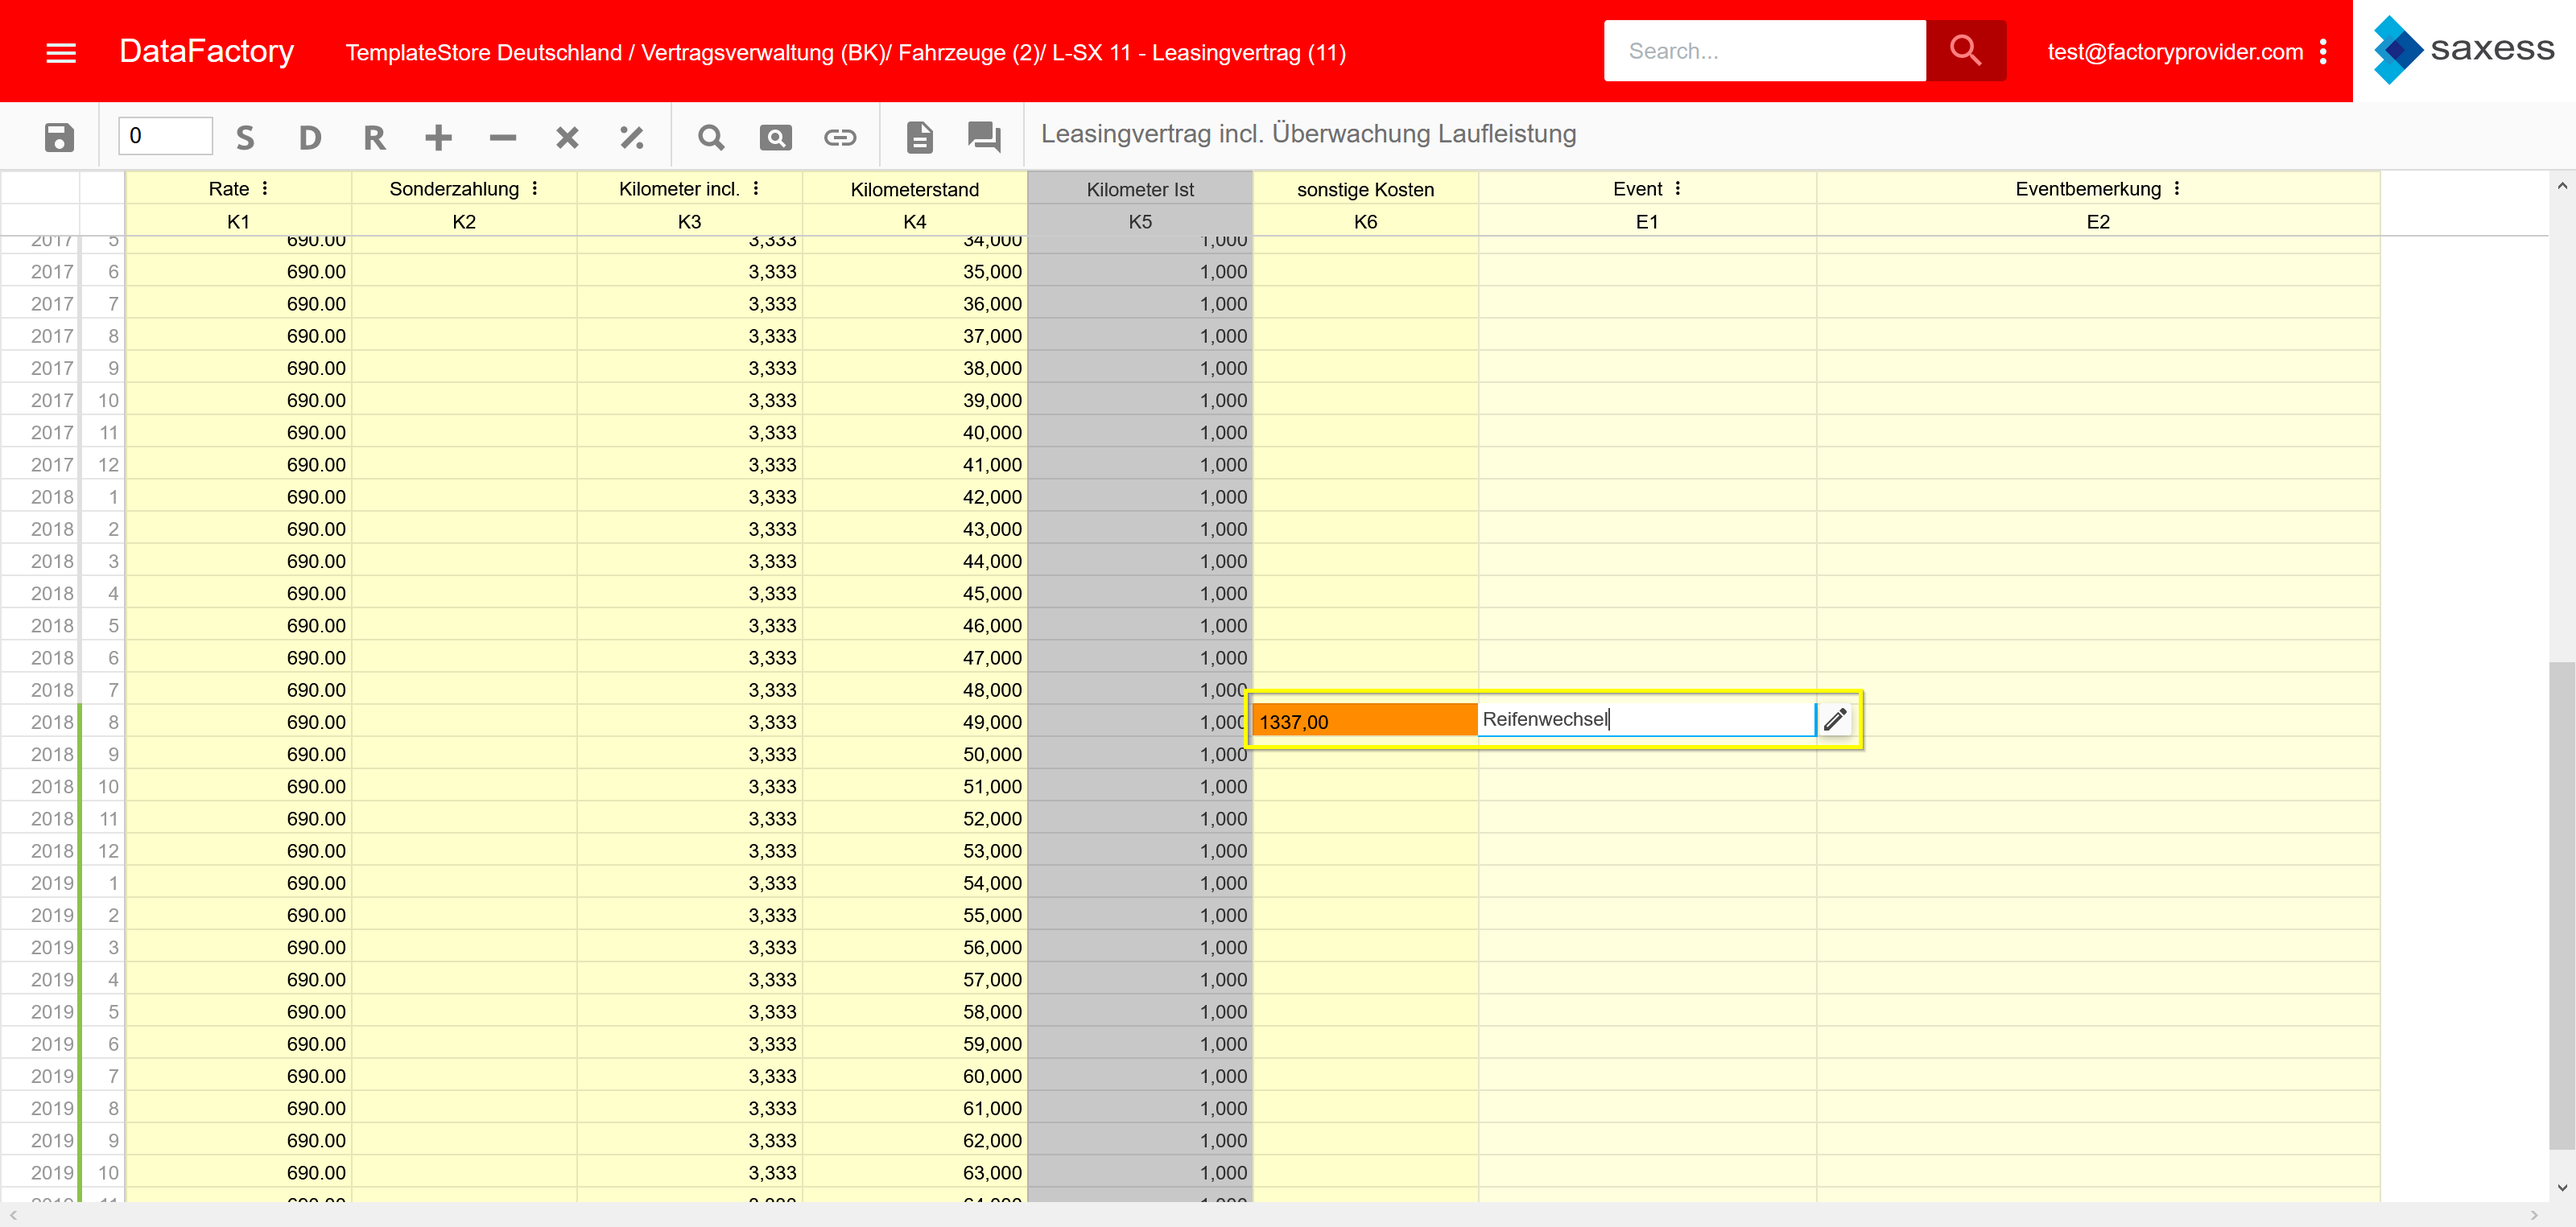
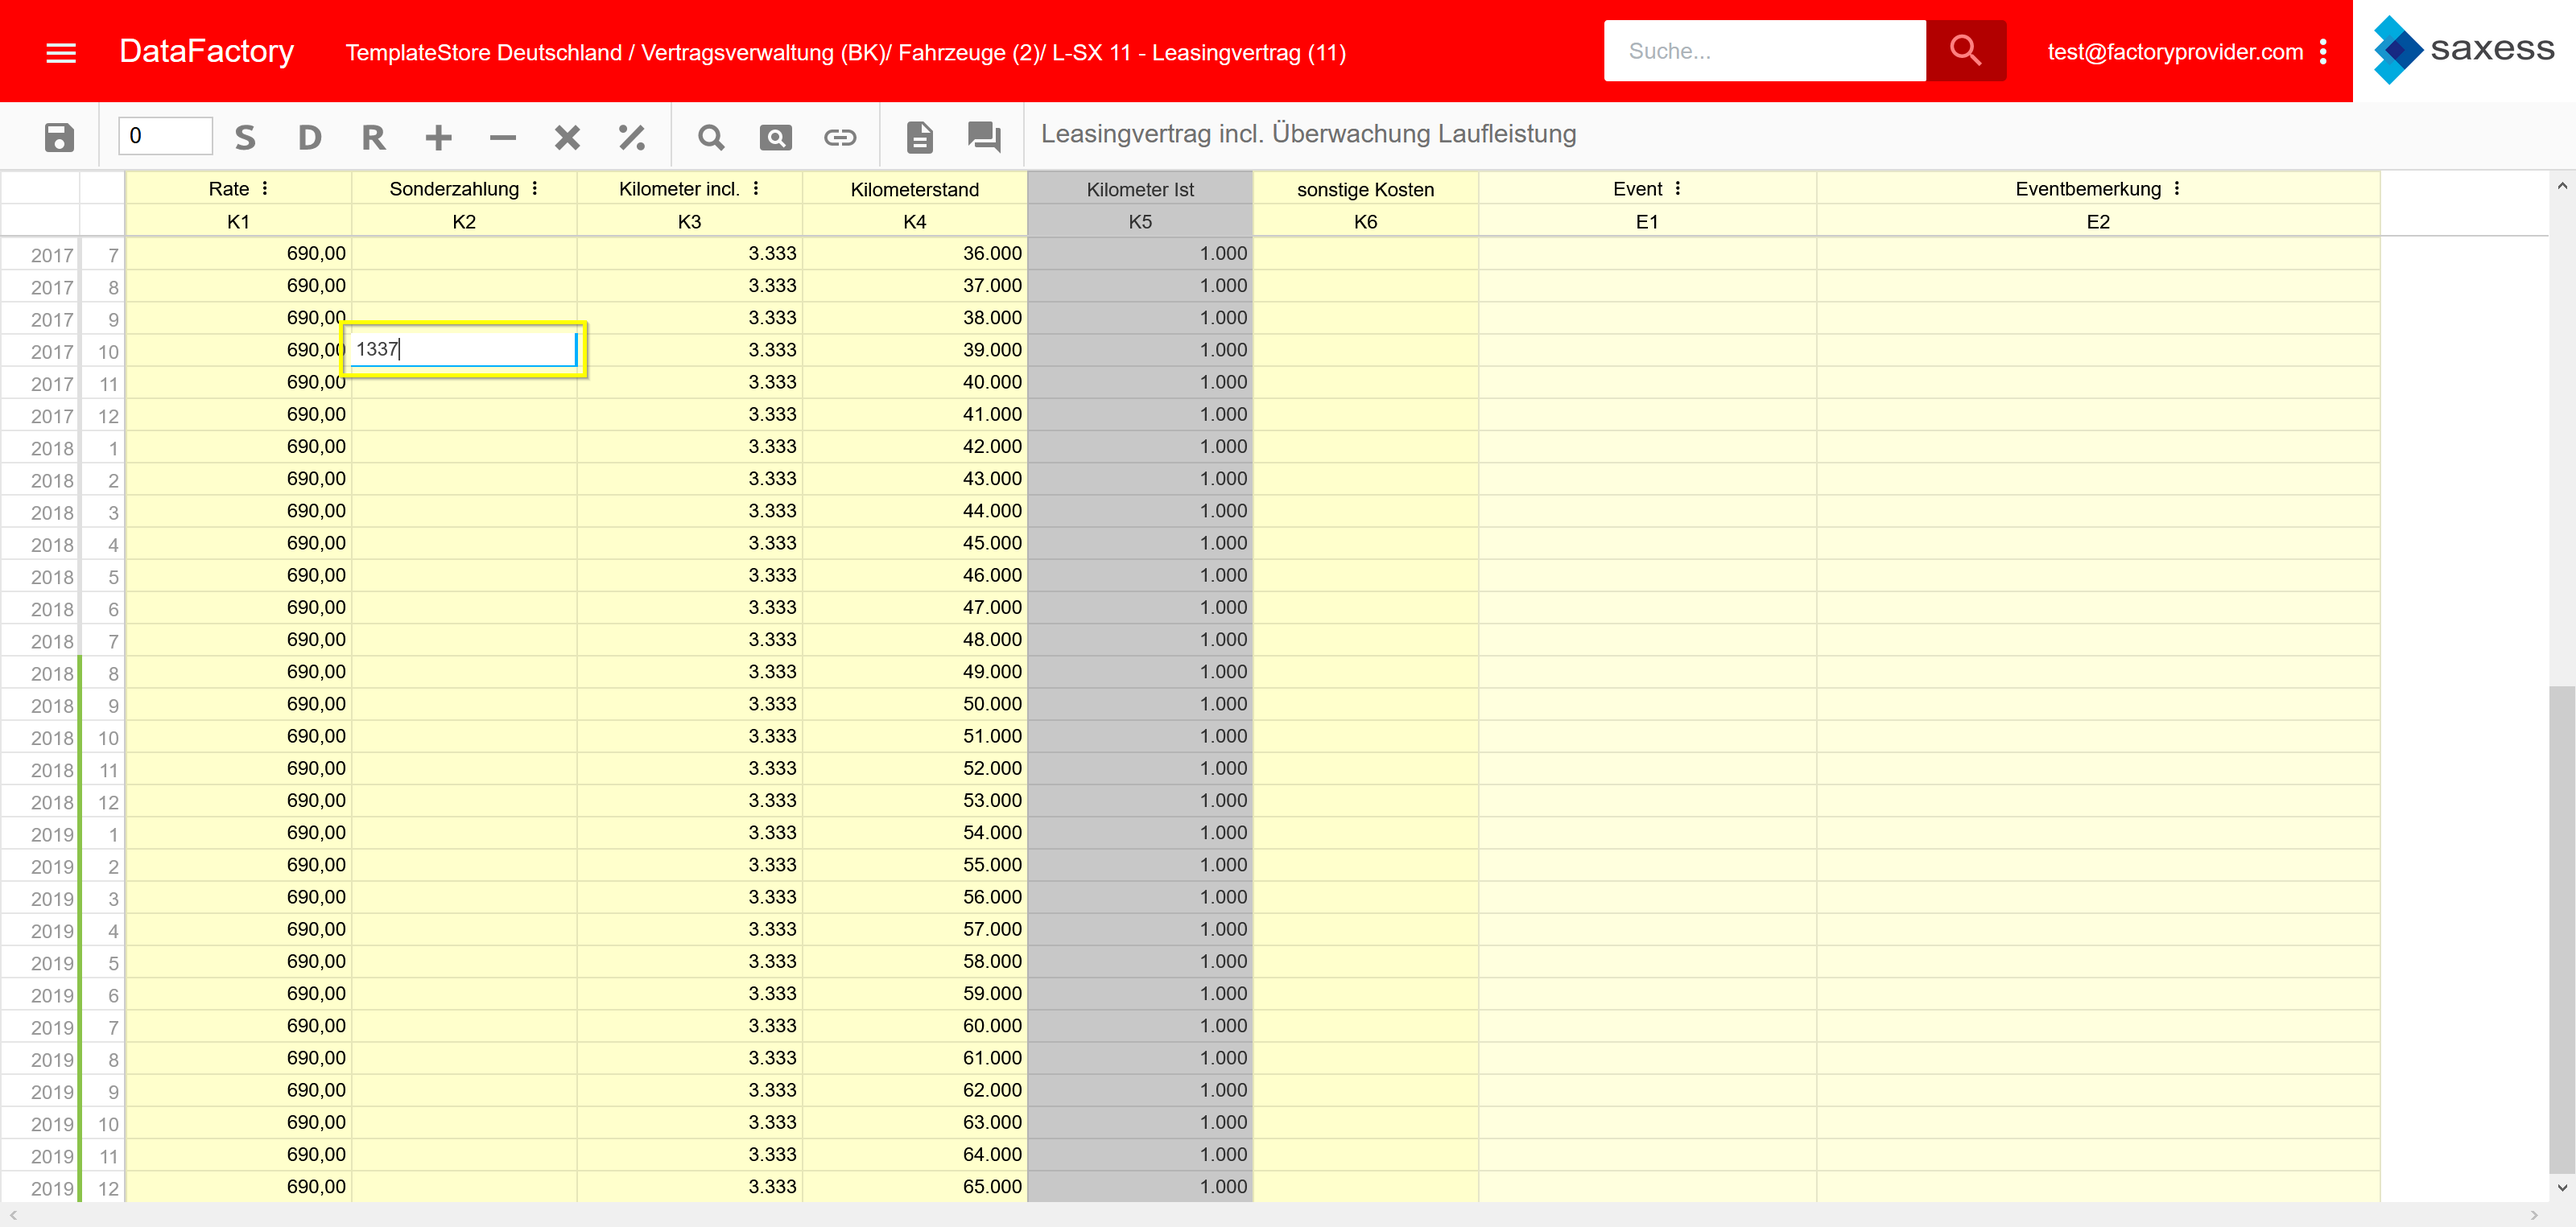
update product

diff --git a/der-web-client/produkt/aufbau/tabellekopfbereich.md b/der-web-client/produkt/aufbau/tabellekopfbereich.md
@@ -1,13 +1,13 @@
 #### Tabellenkopfbereich
 
-Im Tabellenkopfbereich finden Sie ein **Erläuterungsfeld**, den **Rechner** zur Eingabe von Daten in den Tabellenbereich sowie **Buttons** zum Speichern, nach Excel exportieren und Kommentieren.
+Im Tabellenkopfbereich finden Sie ein **Erläuterungsfeld**, den **Rechner** zur Eingabe von Daten in den Tabellenbereich sowie **Buttons** zum Speichern, nach Excel exportieren, Kommentieren, Hyperlinks hinzufügen und den Flex-Funktionen.
 
 #### *Erläuterungsfeld*
 
 Hier haben Sie die Möglichkeit, den Inhalt Ihres Produkt näher zu beschreiben.
 
 ---
-![](/assets/wp4.png)
+![](/Pictures/Web-Client/Produkt/Aufbau/Tabellenkopfbereich/tabellenkopfbereich_1.png)
 
 ---
 
@@ -18,16 +18,20 @@ Hier haben Sie die Möglichkeit, den Inhalt Ihres Produkt näher zu beschreiben.
 Alle Änderungen, die Sie an den Daten vorgenommen haben, können Sie hierüber speichern.
 
 ---
-![](/assets/wp5.png)
+![](/Pictures/Web-Client/Produkt/Aufbau/Tabellenkopfbereich/tabellenkopfbereich_2.png)
 
 ---
 
 ***Nach Excel exportieren***
 
-Sie können die Daten des Templates nach Excel exportieren. Nach dem Klick auf den Button **Nach Excel exportieren** können Sie sich die Daten direkt in Excel anzeigen lassen oder die Daten als Datei speichern.
+Sie können die Daten des Produkts nach Excel exportieren. Nach dem Klick auf den Button **Nach Excel exportieren** öffnet sich ein Dialogfenster mit dem Sie entscheiden können ob die Daten direkt in Excel geöffnet oder die Daten als Datei gespeichert werden sollen.
 
 ---
-![](/assets/wp6.png)
+![](/Pictures/Web-Client/Produkt/Aufbau/Tabellenkopfbereich/tabellenkopfbereich_3.png)
+
+---
+---
+![](/Pictures/Web-Client/Produkt/Aufbau/Tabellenkopfbereich/tabellenkopfbereich_4.png)
 
 ---
 
@@ -36,13 +40,13 @@ Sie können die Daten des Templates nach Excel exportieren. Nach dem Klick auf d
 Wenn Sie auf den Button **Kommentare** klicken, öffnet sich ein Fenster, in welchem Ihnen alle Bemerkungen angezeigt werden, die Nutzer vermerkten, wenn Sie Daten im Excel- oder im Web-Client verändert und abgespeichert haben. In dem Fenster können Sie keine Daten eingeben.
 
 ---
-![](/assets/wp7.png)
+![](/Pictures/Web-Client/Produkt/Aufbau/Tabellenkopfbereich/tabellenkopfbereich_4.png)
 
 ---
-![](/assets/wp8.png)
+![](/Pictures/Web-Client/Produkt/Aufbau/Tabellenkopfbereich/tabellenkopfbereich_5.png)
 
 ---
 
-> **Hinweis**: Wie auch im Excel-Client, kann ein Nutzer dazu verpflichtet sein, jede Datenänderung durch einen kurzen Kommentar zu begründen. Diese Funktionalität hinterlegen Sie im Excel-Client direkt am Benutzer. 
+>**Hinweis:** Wie auch im Excel-Client, kann ein Nutzer dazu verpflichtet sein, jede Datenänderung durch einen kurzen Kommentar zu begründen. Diese Funktionalität hinterlegen Sie im Excel-Client direkt am Benutzer. 
 
-
+>**Hinweis:** Informationen zu den weiteren Funktionen im Tabellenkopfbereich erfahren Sie im Kapitel **Datenerfassung**.

diff --git a/der-web-client/produkt/datenerfassung/manuelle-eingabe.md b/der-web-client/produkt/datenerfassung/manuelle-eingabe.md
@@ -3,23 +3,39 @@
 Sie können Daten mittels der Eingabe über Ihre Tastatur erfassen, indem Sie die Werte direkt in die gewünschten Zellen eingeben.  
 
 ---
-![](/assets/wp11.png)
+![](/Pictures/Web-Client/Produkt/Datenerfassung/Manuelle Eingabe/manuelle_eingabe_1.png)
 
 ---
-  
+>**Hinweis:** Zellen deren Inhalt verändert wurde werden orange markiert.
+
 Sie können für die Eingabe Ihrer Daten auch Excel-Formeln verwenden.  
 
 ---
-![](/assets/wp12.png)
+![](/Pictures/Web-Client/Produkt/Datenerfassung/Manuelle Eingabe/manuelle_eingabe_2.png)
 
 ---
   
 > **Hinweis**: Nur, wenn die Wertereihe bei der Einstellung Herkunft vom Typ XLS oder XLS-Strict definiert ist, bleibt die Formel im Wertebereich bestehen. Andernfalls wird die Formel beim Speichern durch den Wert ersetzt.   
 
-Wenn Sie mit der rechten Maustaste in eine Zelle klicken, haben Sie die Möglichkeit Inhalte auszuschneiden, zu kopieren, einzufügen oder zu löschen. Werte, die Sie in der Zwischenablage gespeichert haben, können Sie über die Auswahl **Einfügen** in die markierte Zelle einfügen.
+Wenn Sie zuvor im Excel-Client einer Spalte eine Werteliste zugeordnet haben, dann können Sie in diesen Spalten vorgegebene Werte aus einem Dropdown-Menü auswählen.
 
 ---
-![](/assets/wp44.png)
+![](/Pictures/Web-Client/Produkt/Datenerfassung/Manuelle Eingabe/manuelle_eingabe_3.png)
+
+---
+
+Das Dropdown-Menü öffnet sich mit einem Klick auf das Stift-Symbol rechts neben der markierten Zelle. Sie können an dieser Stelle einen der Werte auswählen.
+
+---
+![](/Pictures/Web-Client/Produkt/Datenerfassung/Manuelle Eingabe/manuelle_eingabe_4.png)
+
+---
+>**Hinweis:** Sollten Sie bei der Einstellung Herkunft nicht `List-Strict` angegeben haben, dann lassen sich neben den vorgegebenen auch individuelle Werte eintragen.
+
+Wenn Sie mit der rechten Maustaste in eine Zelle klicken, haben Sie die Möglichkeit Inhalte zu kopieren, einzufügen und Zellenkommentare zu bearbeiten. Werte, die Sie in der Zwischenablage gespeichert haben, können Sie über die Auswahl **Einfügen** in die markierte Zelle einfügen.
+
+---
+![](/Pictures/Web-Client/Produkt/Datenerfassung/Manuelle Eingabe/manuelle_eingabe_6.png)
 
 ---
 

diff --git a/der-web-client/produktlinie/produktubersicht/ubergeordneter-bereich.md b/der-web-client/produktlinie/produktubersicht/ubergeordneter-bereich.md
@@ -20,6 +20,7 @@ Hier finden Sie die folgenden Buttons:
 Hier haben Sie die Möglichkeit, den Inhalt Ihrer Produktlinie näher zu beschreiben.
 
 <!---
+
 #### *Suchleiste*
 
 Hier können Sie einen Begriff eingeben, welchen Sie in der Produkttabelle suchen möchten. 
@@ -49,39 +50,4 @@ Sie können die Suchleiste auch ausblenden.
 
 > **Hinweis**: Nach dem gleichen Vorgehen können Sie die Suchleiste auch wieder einblenden.
 
-#### *Fusszeile*
-
-In der Fusszeile können Sie sich zu jeder Spalte in Ihrer Produkttabelle Aggregrationsfunktion wie Anzahl, Minimun, Maximum  und Durchschnitt anzeigen lassen. Diese Funktion können Sie nutzen, wenn die Werte in Ihrer Spalte als Datentyp "Zahl" definiert sind.
-
-Um die Fusszeile einzublenden, gehen Sie wie folgt vor.
-
-1) Klicken Sie mit der rechten Maustaste in eine Spaltenüberschrift im Tabellenkopf und wählen Sie **Fusszeile**.
-
----
-![](/assets/wpl56.png)
-
----
-
-2) Die Fusszeile wird Ihnen am unteren Ende Ihres Bildschirmfensters als grauer Balken eingeblendet.
-
----
-![](/assets/wpl57.png)
-
----
-
-3) Klicken Sie mit der rechten Maustaste in eine Spalte der Fusszeile und wählen Sie die gewünschte Aggregationsfunktion aus.
-
----
-![](/assets/wpl58.png)
-
----
-
-4) Das Ergebnis wird Ihnen in der Fusszeile angezeigt.
-
----
-![](/assets/wpl59.png)
-
----
-
-> **Hinweis**: Die Fusszeile können Sie auf dem gleichen Weg wie in Schritt 1 beschrieben wieder entfernen.
 -->

diff --git a/der-web-client/produkt/aufbau/tabellenbereich.md b/der-web-client/produkt/aufbau/tabellenbereich.md
@@ -3,7 +3,7 @@
 Im Excel-Client wurde die Struktur und Berechnungslogik der Tabelle definiert, welche im Web-Client nicht veränderbar ist. Die Tabelle enthält einen Wertebereich, eine Zeitachse sowie eine Achse mit Name und ID der Wertereihe.
 
 ---
-![](/assets/wp9.png)
+![](/Pictures/Web-Client/Produkt/Aufbau/Tabellenbereich/tabellenbereich_1.png)
 
 ---
 
@@ -11,7 +11,7 @@ An den beiden Achsen können Sie keine Änderungen vornehmen. Nur im Wertebereic
 
 #### *Unsichtbare Zeitachse*
 
-Im Web-Client können Sie Ihre Ihre Templates/ Produkte auch ohne Zeitachse darstellen lassen bzw. individuelle Zeitachsen einfügen. Ihnen wird dann nur noch die Bezeichnung und die ID der Wertreihen sowie der Wertebereich selbst angezeigt. Dies ist sowohl in horizontaler als auch in vertikaler Orientierung des Templates/Produkts möglich. Diese Templates/ Produkte tragen die Namenskonvention **VN** oder **HN**.
+Im Web-Client können Sie Ihre Templates/Produkte auch ohne Zeitachse darstellen lassen bzw. individuelle Zeitachsen einfügen. Ihnen wird dann nur noch die Bezeichnung und die ID der Wertreihen sowie der Wertebereich selbst angezeigt. Dies ist sowohl in horizontaler als auch in vertikaler Orientierung des Templates/Produkts möglich. Diese Templates/Produkte tragen die Namenskonvention **VN** oder **HN**.
 
 ---
 ![image](https://cloud.githubusercontent.com/assets/24932405/26679324/d8038540-46d4-11e7-8331-e96e3055e867.png)

diff --git a/der-web-client/produkt/navigation.md b/der-web-client/produkt/navigation.md
@@ -1,17 +1,20 @@
 ### Navigation
 
-Durch Klick auf das Symbol in der Icon-Spalte zu dem gewünschten Produkt gelangen Sie in das Produkt-Template.
+Durch Klick auf ein Symbol in der Icon-Spalte gelangen Sie zur Produktansicht des gewählten Produkts.
 
 ---
-![](/assets/wp1.png)
-
----
-
-In der **Navigationsleiste** können Sie jederzeit nachvollziehen, in welchem Produkt Sie sich momentan befinden.
-
----
-![](/assets/wp2.png)
+![](/Pictures/Web-Client/Produkt/Navigation/navigation_1.png)
 
 ---
 
+In der **Navigationsleiste** oder der Pfadangabe am oberen Rand der Seite können Sie jederzeit nachvollziehen, in welchem Produkt Sie sich momentan befinden.
 
+---
+![](/Pictures/Web-Client/Produkt/Navigation/navigation_2.png)
+
+---
+
+---
+![](/Pictures/Web-Client/Produkt/Navigation/navigation_3.png)
+
+---

diff --git a/der-web-client/produkt/datenerfassung.md b/der-web-client/produkt/datenerfassung.md
@@ -3,7 +3,7 @@
 Der Web-Client bietet verschiedene Möglichkeiten der Datenerfassung. Sie können Daten manuell oder mithilfe des Rechners eingeben. Die Datenerfassung erfolgt im Wertebereich der Tabelle.  
 
 ---
-![](/assets/wp10.png)
+![](/Pictures/Web-Client/Produkt/Datenerfassung/datenerfassung_1.png)
 
 ---
 
@@ -11,7 +11,7 @@ Sie können die Daten:
 
 * manuell über Ihre Tastatur oder über Kopieren und Einfügen
 * mithilfe des Rechners
-* unter Verwendung der FlexSuche
+* unter Verwendung der FlexSuche oder FlexAction
 
 in den Wertebereich eingeben.
 

diff --git a/der-web-client/produkt/datenerfassung/eingabe-mittels-rechner.md b/der-web-client/produkt/datenerfassung/eingabe-mittels-rechner.md
@@ -3,7 +3,7 @@
 Auch im Web-Client haben Sie die Möglichkeit, Ihre Daten komfortabel über einen Rechner einzugeben. Der Rechner bietet folgende Rechenoperationen.  
 
 |Rechenoperation|Beschreibung|
-| - | -: |
+| :- | -: |
 |**=**|Fügt den angegebenen Wert in die markierte/n Zelle/n ein.|
 |**+**|Addiert den eingegebenen Wert zu jedem Wert in der/den markierten Zelle/n hinzu.|
 |**-**|Subtrahiert den eingegebenen Wert von jedem Wert in der/den markierten Zelle/n.|

diff --git a/der-web-client/produkt/aufbau.md b/der-web-client/produkt/aufbau.md
@@ -3,7 +3,7 @@
 In der Produktansicht finden Sie den **Tabellenkopfbereich** sowie den **Tabellenbereich**.
 
 ---
-![](/assets/wp3.png)
+![](/Pictures/Web-Client/Produkt/Aufbau/aufbau_1.png)
 
 ---
 
